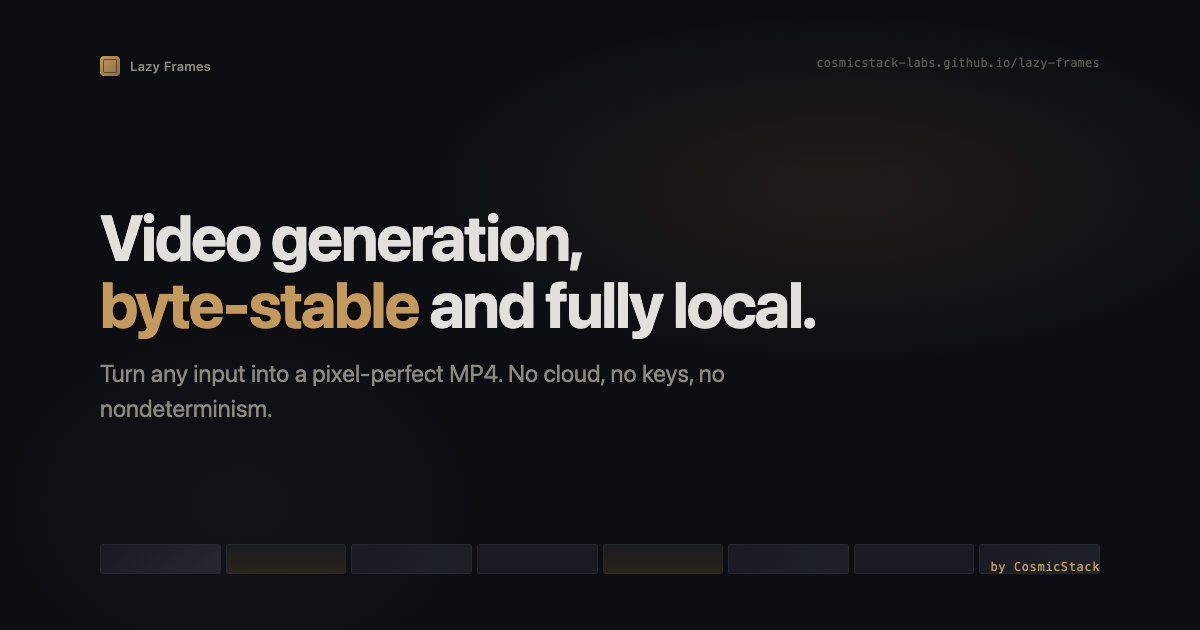
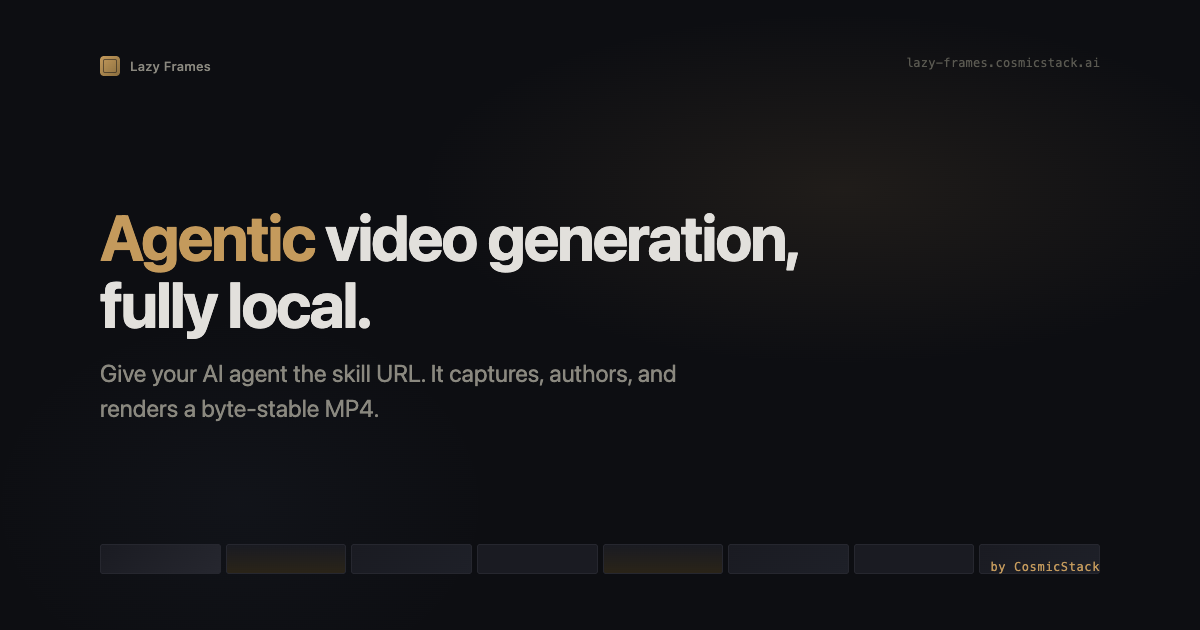
docs: lead with agentic video generation

diff --git a/docs/index.html b/docs/index.html
@@ -3,17 +3,18 @@
 <head>
 <meta charset="utf-8">
 <meta name="viewport" content="width=device-width, initial-scale=1">
-<title>Lazy Frames — fully local, byte-stable video generation</title>
-<meta name="description" content="Turn any input into a pixel-perfect MP4 — fully local, no cloud, no keys, no nondeterminism. Same spec + same machine = byte-identical output, every time.">
+<title>Lazy Frames — Agentic Video Generation</title>
+<meta name="description" content="Agentic video generation — feed a skill URL to your AI agent and it captures, authors, and renders a pixel-perfect MP4. Fully local, byte-stable, no cloud. npm install lazy-frames">
 <meta name="author" content="CosmicStack Labs">
 <meta name="theme-color" content="#0D0E12">
+<link rel="canonical" href="https://lazy-frames.cosmicstack.ai/">
 
 <!-- Open Graph -->
 <meta property="og:type" content="website">
-<meta property="og:title" content="Lazy Frames — byte-stable, fully local video generation">
-<meta property="og:description" content="Turn any input into a pixel-perfect MP4. No cloud, no keys, no nondeterminism. Same spec + same machine = byte-identical output, every time.">
-<meta property="og:url" content="https://cosmicstack-labs.github.io/lazy-frames/">
-<meta property="og:image" content="https://cosmicstack-labs.github.io/lazy-frames/og-card.png">
+<meta property="og:title" content="Lazy Frames — agentic video generation, byte-stable and fully local">
+<meta property="og:description" content="Feed a skill URL to your AI agent — it captures, authors, and renders a pixel-perfect MP4. No cloud, no keys, no nondeterminism.">
+<meta property="og:url" content="https://lazy-frames.cosmicstack.ai/">
+<meta property="og:image" content="https://lazy-frames.cosmicstack.ai/og-card.png">
 <meta property="og:image:width" content="1200">
 <meta property="og:image:height" content="630">
 <meta property="og:site_name" content="Lazy Frames">
@@ -21,10 +22,10 @@
 
 <!-- Twitter Card -->
 <meta name="twitter:card" content="summary_large_image">
-<meta name="twitter:title" content="Lazy Frames — byte-stable, fully local video generation">
-<meta name="twitter:description" content="Turn any input into a pixel-perfect MP4. No cloud, no keys, no nondeterminism.">
-<meta name="twitter:image" content="https://cosmicstack-labs.github.io/lazy-frames/og-card.png">
-<meta name="twitter:image:alt" content="Lazy Frames — video generation, byte-stable and fully local">
+<meta name="twitter:title" content="Lazy Frames — agentic video generation, byte-stable and fully local">
+<meta name="twitter:description" content="Feed a skill URL to your AI agent — it captures, authors, and renders a pixel-perfect MP4. No cloud, no keys, no nondeterminism.">
+<meta name="twitter:image" content="https://lazy-frames.cosmicstack.ai/og-card.png">
+<meta name="twitter:image:alt" content="Lazy Frames — agentic video generation, byte-stable and fully local">
 
 <!-- Structured data -->
 <script type="application/ld+json">
@@ -32,8 +33,8 @@
   "@context": "https://schema.org",
   "@type": "SoftwareApplication",
   "name": "Lazy Frames",
-  "description": "Fully local, byte-stable video generation from a typed JSON spec. No cloud, no keys, no nondeterminism.",
-  "url": "https://cosmicstack-labs.github.io/lazy-frames/",
+  "description": "Agentic video generation: feed a skill URL to your AI agent and it captures, authors, and renders a pixel-perfect MP4. Fully local and byte-stable.",
+  "url": "https://lazy-frames.cosmicstack.ai/",
   "applicationCategory": "MultimediaApplication",
   "operatingSystem": "macOS",
   "author": { "@type": "Organization", "name": "CosmicStack Labs", "url": "https://cosmicstack.ai" },
@@ -68,10 +69,10 @@
   <div class="hero-bg"></div>
   <div class="hero-grain"></div>
   <div class="hero-content">
-    <h1>Video generation,<br><span class="accent">byte-stable</span> and fully local.</h1>
+    <h1>Agentic video generation,<br><span class="accent">byte-stable</span> and fully local.</h1>
     <p class="tagline">
-      Turn any input — a website URL, a text brief, existing footage — into a pixel-perfect MP4.
-      No cloud, no keys, no nondeterminism. Same spec, same machine, same bytes. Every time.
+      Feed a skill URL to your AI agent — it captures, authors a spec, runs the gates, and renders
+      a pixel-perfect MP4. No cloud, no keys, no nondeterminism. Same spec, same machine, same bytes.
     </p>
     <div class="hero-cta">
       <a href="#quickstart" class="btn btn-primary">Get started →</a>

diff --git a/docs/docs.html b/docs/docs.html
@@ -3,25 +3,27 @@
 <head>
 <meta charset="utf-8">
 <meta name="viewport" content="width=device-width, initial-scale=1">
-<title>Lazy Frames — Docs</title>
-<meta name="description" content="Lazy Frames documentation — install, CLI commands, spec format, scene types, transitions, audio, gates.">
+<title>Lazy Frames Docs — Agentic Video Generation</title>
+<meta name="description" content="Build fully local, byte-stable videos with an AI agent. Explore Lazy Frames installation, CLI commands, scene types, audio, transitions, and quality gates.">
 <meta name="theme-color" content="#0D0E12">
+<link rel="canonical" href="https://lazy-frames.cosmicstack.ai/docs.html">
 
 <!-- Open Graph -->
 <meta property="og:type" content="article">
-<meta property="og:title" content="Lazy Frames — Docs">
-<meta property="og:description" content="Install, CLI commands, spec format, scene types, transitions, audio, gates.">
-<meta property="og:url" content="https://cosmicstack-labs.github.io/lazy-frames/docs.html">
-<meta property="og:image" content="https://cosmicstack-labs.github.io/lazy-frames/og-card.png">
+<meta property="og:title" content="Lazy Frames Docs — Agentic Video Generation">
+<meta property="og:description" content="Build fully local, byte-stable videos with an AI agent. Explore the CLI, scene types, audio, transitions, and quality gates.">
+<meta property="og:url" content="https://lazy-frames.cosmicstack.ai/docs.html">
+<meta property="og:image" content="https://lazy-frames.cosmicstack.ai/og-card.png">
 <meta property="og:image:width" content="1200">
 <meta property="og:image:height" content="630">
 <meta property="og:site_name" content="Lazy Frames">
 
 <!-- Twitter Card -->
 <meta name="twitter:card" content="summary_large_image">
-<meta name="twitter:title" content="Lazy Frames — Docs">
-<meta name="twitter:description" content="Install, CLI commands, spec format, scene types, transitions, audio, gates.">
-<meta name="twitter:image" content="https://cosmicstack-labs.github.io/lazy-frames/og-card.png">
+<meta name="twitter:title" content="Lazy Frames Docs — Agentic Video Generation">
+<meta name="twitter:description" content="Build fully local, byte-stable videos with an AI agent. Explore the CLI, scene types, audio, transitions, and quality gates.">
+<meta name="twitter:image" content="https://lazy-frames.cosmicstack.ai/og-card.png">
+<meta name="twitter:image:alt" content="Lazy Frames — agentic video generation, fully local">
 <link rel="stylesheet" href="styles.css">
 <link rel="icon" type="image/svg+xml" href="favicon.svg">
 </head>

diff --git a/scripts/card.html b/scripts/card.html
@@ -80,9 +80,9 @@ body { width: 1200px; height: 630px; overflow: hidden; }
     <div class="card-brand-mark"></div>
     <div class="card-brand-name">Lazy Frames</div>
   </div>
-  <div class="card-url">cosmicstack-labs.github.io/lazy-frames</div>
-  <div class="card-title">Video generation,<br><span class="accent">byte-stable</span> and fully local.</div>
-  <div class="card-tagline">Turn any input into a pixel-perfect MP4. No cloud, no keys, no nondeterminism.</div>
+  <div class="card-url">lazy-frames.cosmicstack.ai</div>
+  <div class="card-title"><span class="accent">Agentic</span> video generation,<br>fully local.</div>
+  <div class="card-tagline">Give your AI agent the skill URL. It captures, authors, and renders a byte-stable MP4.</div>
   <div class="card-strip">
     <div class="card-strip-frame"></div>
     <div class="card-strip-frame"></div>

diff --git a/README.md b/README.md
@@ -3,7 +3,7 @@
 [![npm version](https://img.shields.io/npm/v/lazy-frames.svg)](https://www.npmjs.com/package/lazy-frames)
 [![license](https://img.shields.io/npm/l/lazy-frames.svg)](https://github.com/cosmicstack-labs/lazy-frames)
 
-Fully local, byte-stable video generation from a typed JSON spec. No cloud, no keys, no nondeterminism.
+**Agentic video generation.** Feed a skill URL to your AI agent — it captures, authors a spec, runs the gates, and renders a pixel-perfect MP4. Fully local, byte-stable, no cloud, no keys, no nondeterminism.
 
 **Same spec + same machine = byte-identical MP4, every time.**
 
